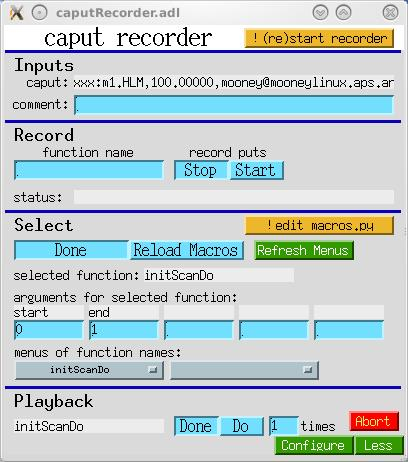
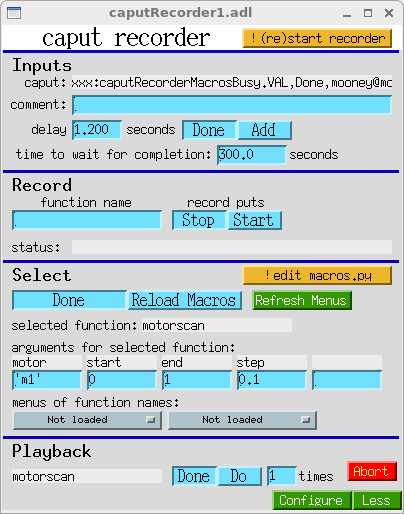
Added docs for DelaySec, AddDelayCmd, and WaitCBSec.

diff --git a/documentation/caputRecorder.html b/documentation/caputRecorder.html
@@ -20,11 +20,11 @@ writes a <i>caput-notification</i> string of the form "pvname,value,user@host"
 to an EPICS PV whenever an eligible caput is received by the IOC.
 
 <p>caputRecorder provides an EPICS database that contains the EPICS PV mentioned
-above, and other PVs that function as caputRecorder's user interface.  The user-
-interface PVs are monitored by the python program caputRecorder.py, and direct
-its operation.  When caputRecorder.py is given a function name and told to
-record, it begins monitoring the caput-notification PVs of specified IOCs, and
-writes python commands corresponding to each notification into the python
+above, and other PVs that function as caputRecorder's user interface.  The
+user-interface PVs are monitored by the python program caputRecorder.py, and
+direct its operation.  When caputRecorder.py is given a function name and told
+to record, it begins monitoring the caput-notification PVs of specified IOCs,
+and writes python commands corresponding to each notification into the python
 program file macros.py.
 
 <P>caputRecorder.py also inspects the file macros.py and writes the names of
@@ -105,7 +105,9 @@ excerpt from st.cmd:
 
 <blockquote>
 <pre>
+iocsh
 asSetFilename("$(TOP)/iocBoot/accessSecurity.acf")
+exit
 </pre>
 </blockquote>
 
@@ -202,6 +204,19 @@ function is being recorded.
 <li><P>The text-entry field labelled "comment:" allows you to add comments to
 the python function being recorded.  This field is monitored only while a python
 function is being recorded.
+
+<li><P>The text-entry field labelled "delay" specifies the time delay in seconds
+of the delay command that will be added to the macro being recorded when you
+press the "Add" button.  The actual python code for this command will be
+something like <code>time.sleep(1.200)</code>.  After caputRecorder.py has
+written the delay command, it will press the "Done" button.
+
+<li><P>The text-entry field labelled "time to wait for completion:" specifies
+the time in seconds that python will wait for completion of a macro command 
+that does a caput to an EPICS PV, before going on to the next command. 
+"Completion" means completion of any EPICS processing that results from the
+execution of that caput.  It's ok to change this time while a macro is being
+recorded.
 
 </ul>
 
@@ -322,14 +337,15 @@ recorder" button.
 caputRecorder records a caput with the following python code:
 
 <pre>
-epics.caput("xxx:scan1.P1PV","xxx:m2.VAL", wait=True, timeout=300)
+epics.caput("xxx:scan1.P1PV","xxx:m2.VAL", wait=True, timeout=300.0)
 </pre>
 
 This code will request a completion callback from EPICS, and will wait as long
 as 300 seconds for the callback to arrive.  This is probably much longer than
-most operations will take to complete, but five minutes is not long
-enough for many scans.  If you use caputRecorder to execute scans, plan to edit
-the macros.py file to increase the timeout for writes to xxx:scan1.EXSC.
+most operations will take to complete, but five minutes is not long enough for
+many scans.  If you use caputRecorder to execute scans, you'll probably want to
+increase the "time to wait for completion" described in the "How to
+use"/"Inputs" section.
 
 <P>Currently, it is not an error for a macro to timeout while waiting for a
 callback.  Python will simply move on to the next command and execute it.

diff --git a/documentation/caputRecorderReleaseNotes.html b/documentation/caputRecorderReleaseNotes.html
@@ -9,6 +9,13 @@
 
 <h1 align="center">caputRecorder Release Notes</h1>
 
+<h2 align="center">Release 1-3</h2>
+
+<li>Use epicsSnprintf, instead of snprintf, for older vxWorks versions.
+
+<li>Enable user to insert delay commands, and to specify the put_callback wait
+time.
+
 <h2 align="center">Release 1-2</h2>
 <ul>
 
